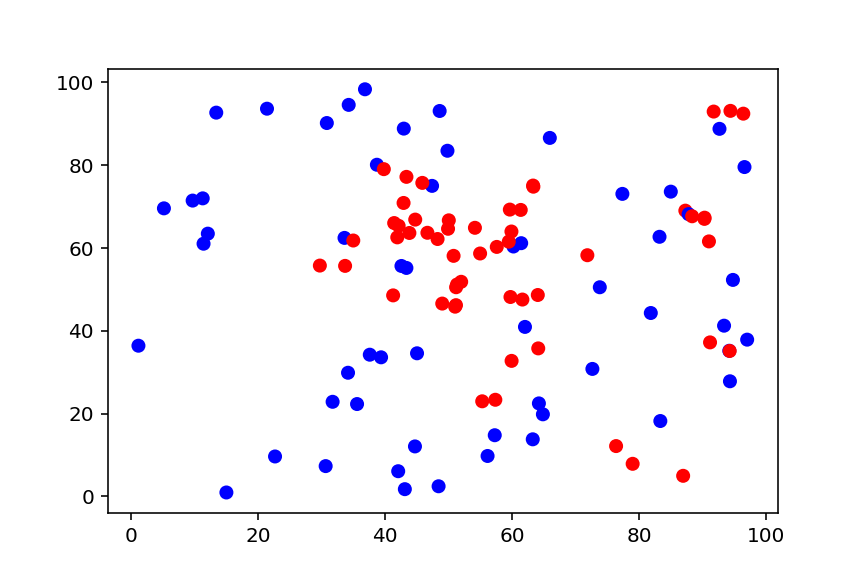
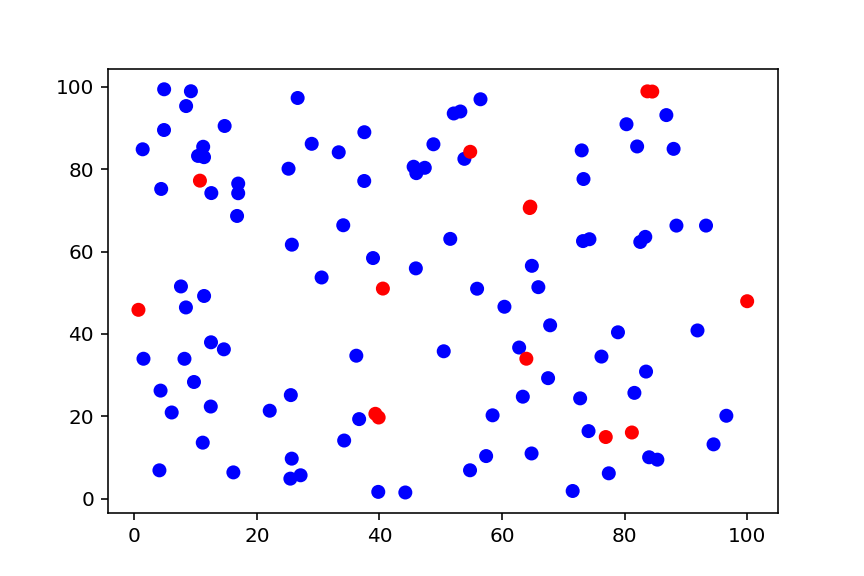
cancled gif

diff --git a/run.py b/run.py
@@ -8,7 +8,7 @@ from anim_func import *
 xbounds = (0.0,100.0)
 ybounds = (0.,100.)
 
-param_dict = create_parameter_dict(n_H=100, n_Z=10,timestep=.08, n_steps=150, 
+param_dict = create_parameter_dict(n_H=100, n_Z=10,timestep=.08, n_steps=15, 
                                    smooth_rand_walk = 0.3,
                                    bite_r_Z_H = 0.2,
                                    walking_speed_Z = 3.,
